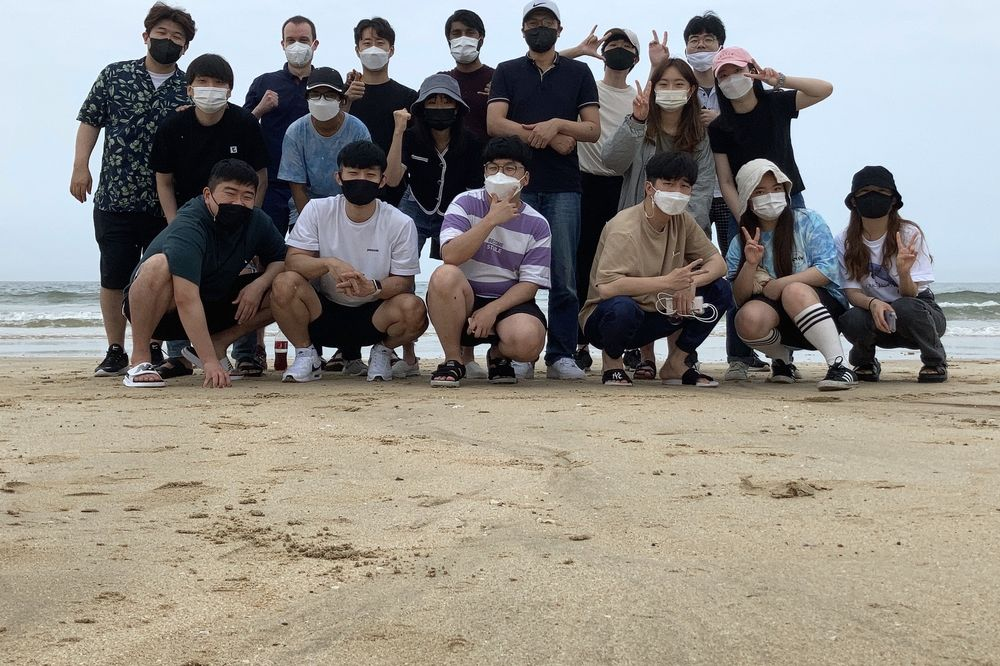
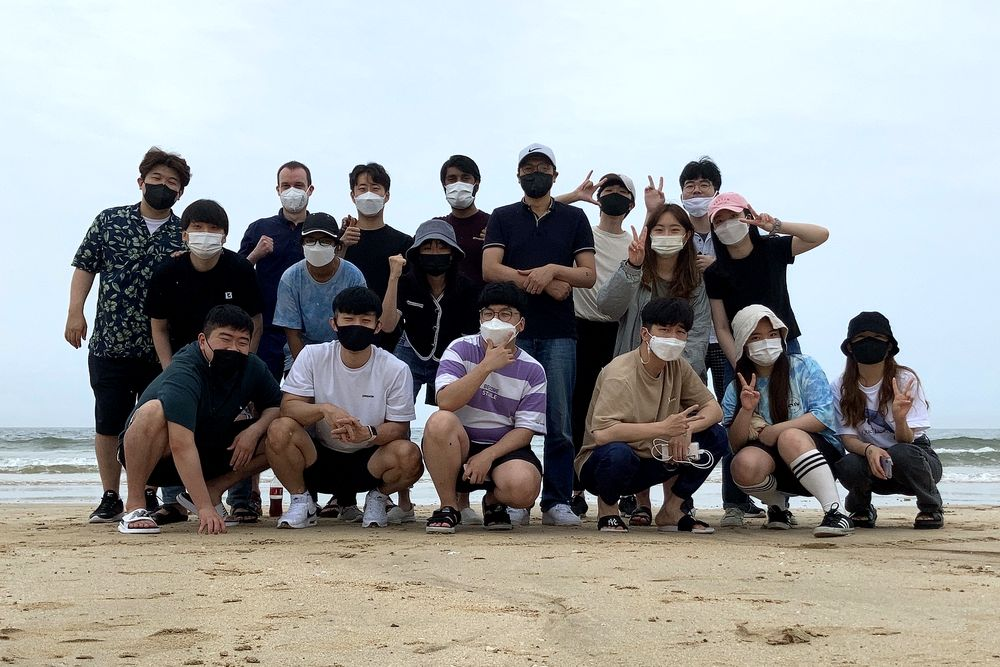
Gallery: three photos re-cropped and sharpened, plus a 2019 group photo
Daecheon 2021 sits centred in its 3:2 frame now; Hoengseong 2015 is cropped in
so the brick wall stops dominating; the ENGE 2024 export gets a denoise and a
two-step unsharp since 1315px is the largest original we have. Adds the
November 2019 group photo that arrived in the Dropbox folder.

diff --git a/gallery/index.html b/gallery/index.html
@@ -117,7 +117,7 @@
   <div class="gallery-grid">
     <figure class="gallery-card reveal"><button type="button" class="gallery-item" data-gallery-item data-frames='[{&quot;s&quot;: &quot;../assets/gallery/2024-12-year-end-dinner-1.jpg?v=b9c950d1&quot;, &quot;a&quot;: &quot;Year-end dinner, December 2024&quot;}]' aria-label="Year-end dinner, December 2024 — opens in the viewer"><span class="gal-track"><img class="gal-frame is-active" src="../assets/gallery/thumbs/2024-12-year-end-dinner-1.jpg?v=b9c950d1" alt="Year-end dinner, December 2024" width="1000" height="667" loading="lazy" decoding="async"></span><span class="zoom"><svg viewBox="0 0 24 24" fill="none" stroke="currentColor" stroke-width="1.8" stroke-linecap="round" stroke-linejoin="round" aria-hidden="true"><path d="M11 19a8 8 0 100-16 8 8 0 000 16zM21 21l-4.3-4.3 M11 8v6M8 11h6"/></svg></span></button><figcaption class="gal-cap"><span class="gal-title">Year-end dinner</span><span class="gal-date">December 2024</span></figcaption></figure>
     <figure class="gallery-card reveal"><button type="button" class="gallery-item" data-gallery-item data-frames='[{&quot;s&quot;: &quot;../assets/gallery/2024-12-after-party-1.jpg?v=8803f062&quot;, &quot;a&quot;: &quot;Year-end dinner, after-party, December 2024 (photo 1 of 2)&quot;}, {&quot;s&quot;: &quot;../assets/gallery/2024-12-after-party-2.jpg?v=3a1f5875&quot;, &quot;a&quot;: &quot;Year-end dinner, after-party, December 2024 (photo 2 of 2)&quot;}]' aria-label="Year-end dinner, after-party, December 2024 — 2 photos, opens in the viewer"><span class="gal-track"><img class="gal-frame is-active" src="../assets/gallery/thumbs/2024-12-after-party-1.jpg?v=8803f062" alt="Year-end dinner, after-party, December 2024 (photo 1 of 2)" width="1000" height="666" loading="lazy" decoding="async"><img class="gal-frame" src="../assets/gallery/thumbs/2024-12-after-party-2.jpg?v=3a1f5875" alt="Year-end dinner, after-party, December 2024 (photo 2 of 2)" width="1000" height="666" loading="lazy" decoding="async"></span><span class="gal-badge" aria-hidden="true">1/2</span><span class="gal-dots" aria-hidden="true"><i class="is-on"></i><i></i></span><span class="zoom"><svg viewBox="0 0 24 24" fill="none" stroke="currentColor" stroke-width="1.8" stroke-linecap="round" stroke-linejoin="round" aria-hidden="true"><path d="M11 19a8 8 0 100-16 8 8 0 000 16zM21 21l-4.3-4.3 M11 8v6M8 11h6"/></svg></span></button><figcaption class="gal-cap"><span class="gal-title">Year-end dinner, after-party</span><span class="gal-date">December 2024</span></figcaption></figure>
-    <figure class="gallery-card reveal"><button type="button" class="gallery-item" data-gallery-item data-frames='[{&quot;s&quot;: &quot;../assets/gallery/2024-11-enge-1.jpg?v=ae8acc46&quot;, &quot;a&quot;: &quot;ENGE 2024 conference, Jeju Shinhwa World, November 2024&quot;}]' aria-label="ENGE 2024 conference, Jeju Shinhwa World, November 2024 — opens in the viewer"><span class="gal-track"><img class="gal-frame is-active" src="../assets/gallery/thumbs/2024-11-enge-1.jpg?v=ae8acc46" alt="ENGE 2024 conference, Jeju Shinhwa World, November 2024" width="1000" height="667" loading="lazy" decoding="async"></span><span class="zoom"><svg viewBox="0 0 24 24" fill="none" stroke="currentColor" stroke-width="1.8" stroke-linecap="round" stroke-linejoin="round" aria-hidden="true"><path d="M11 19a8 8 0 100-16 8 8 0 000 16zM21 21l-4.3-4.3 M11 8v6M8 11h6"/></svg></span></button><figcaption class="gal-cap"><span class="gal-title">ENGE 2024 conference, Jeju Shinhwa World</span><span class="gal-date">November 2024</span></figcaption></figure>
+    <figure class="gallery-card reveal"><button type="button" class="gallery-item" data-gallery-item data-frames='[{&quot;s&quot;: &quot;../assets/gallery/2024-11-enge-1.jpg?v=ef9a931f&quot;, &quot;a&quot;: &quot;ENGE 2024 conference, Jeju Shinhwa World, November 2024&quot;}]' aria-label="ENGE 2024 conference, Jeju Shinhwa World, November 2024 — opens in the viewer"><span class="gal-track"><img class="gal-frame is-active" src="../assets/gallery/thumbs/2024-11-enge-1.jpg?v=ef9a931f" alt="ENGE 2024 conference, Jeju Shinhwa World, November 2024" width="1000" height="667" loading="lazy" decoding="async"></span><span class="zoom"><svg viewBox="0 0 24 24" fill="none" stroke="currentColor" stroke-width="1.8" stroke-linecap="round" stroke-linejoin="round" aria-hidden="true"><path d="M11 19a8 8 0 100-16 8 8 0 000 16zM21 21l-4.3-4.3 M11 8v6M8 11h6"/></svg></span></button><figcaption class="gal-cap"><span class="gal-title">ENGE 2024 conference, Jeju Shinhwa World</span><span class="gal-date">November 2024</span></figcaption></figure>
     <figure class="gallery-card reveal"><button type="button" class="gallery-item" data-gallery-item data-frames='[{&quot;s&quot;: &quot;../assets/gallery/2024-10-small-group-1.jpg?v=dd4a26ae&quot;, &quot;a&quot;: &quot;Small-group dinner, October 2024&quot;}]' aria-label="Small-group dinner, October 2024 — opens in the viewer"><span class="gal-track"><img class="gal-frame is-active" src="../assets/gallery/thumbs/2024-10-small-group-1.jpg?v=dd4a26ae" alt="Small-group dinner, October 2024" width="1000" height="667" loading="lazy" decoding="async"></span><span class="zoom"><svg viewBox="0 0 24 24" fill="none" stroke="currentColor" stroke-width="1.8" stroke-linecap="round" stroke-linejoin="round" aria-hidden="true"><path d="M11 19a8 8 0 100-16 8 8 0 000 16zM21 21l-4.3-4.3 M11 8v6M8 11h6"/></svg></span></button><figcaption class="gal-cap"><span class="gal-title">Small-group dinner</span><span class="gal-date">October 2024</span></figcaption></figure>
     <figure class="gallery-card reveal is-feature"><button type="button" class="gallery-item" data-gallery-item data-frames='[{&quot;s&quot;: &quot;../assets/gallery/2024-07-daebudo-1.jpg?v=58b00f04&quot;, &quot;a&quot;: &quot;Summer workshop, Daebudo, July 2024&quot;}]' aria-label="Summer workshop, Daebudo, July 2024 — opens in the viewer"><span class="gal-track"><img class="gal-frame is-active" src="../assets/gallery/thumbs/2024-07-daebudo-1.jpg?v=58b00f04" alt="Summer workshop, Daebudo, July 2024" width="1000" height="667" loading="lazy" decoding="async"></span><span class="zoom"><svg viewBox="0 0 24 24" fill="none" stroke="currentColor" stroke-width="1.8" stroke-linecap="round" stroke-linejoin="round" aria-hidden="true"><path d="M11 19a8 8 0 100-16 8 8 0 000 16zM21 21l-4.3-4.3 M11 8v6M8 11h6"/></svg></span></button><figcaption class="gal-cap"><span class="gal-title">Summer workshop, Daebudo</span><span class="gal-date">July 2024</span></figcaption></figure>
     <figure class="gallery-card reveal"><button type="button" class="gallery-item" data-gallery-item data-frames='[{&quot;s&quot;: &quot;../assets/gallery/2024-02-small-group-1.jpg?v=a04d55ed&quot;, &quot;a&quot;: &quot;Small-group dinner, February 2024&quot;}]' aria-label="Small-group dinner, February 2024 — opens in the viewer"><span class="gal-track"><img class="gal-frame is-active" src="../assets/gallery/thumbs/2024-02-small-group-1.jpg?v=a04d55ed" alt="Small-group dinner, February 2024" width="1000" height="666" loading="lazy" decoding="async"></span><span class="zoom"><svg viewBox="0 0 24 24" fill="none" stroke="currentColor" stroke-width="1.8" stroke-linecap="round" stroke-linejoin="round" aria-hidden="true"><path d="M11 19a8 8 0 100-16 8 8 0 000 16zM21 21l-4.3-4.3 M11 8v6M8 11h6"/></svg></span></button><figcaption class="gal-cap"><span class="gal-title">Small-group dinner</span><span class="gal-date">February 2024</span></figcaption></figure>
@@ -143,7 +143,7 @@
   <h2 class="gal-year-head"><span class="gal-year-num">2021</span><span class="gal-year-rule"></span></h2>
   <div class="gallery-grid">
     <figure class="gallery-card reveal is-feature"><button type="button" class="gallery-item" data-gallery-item data-frames='[{&quot;s&quot;: &quot;../assets/gallery/2021-11-biochip-1.jpg?v=c5389c12&quot;, &quot;a&quot;: &quot;Korean Biochip Society fall meeting, Jeju Shinhwa World, November 2021&quot;}]' aria-label="Korean Biochip Society fall meeting, Jeju Shinhwa World, November 2021 — opens in the viewer"><span class="gal-track"><img class="gal-frame is-active" src="../assets/gallery/thumbs/2021-11-biochip-1.jpg?v=c5389c12" alt="Korean Biochip Society fall meeting, Jeju Shinhwa World, November 2021" width="1000" height="667" loading="lazy" decoding="async"></span><span class="zoom"><svg viewBox="0 0 24 24" fill="none" stroke="currentColor" stroke-width="1.8" stroke-linecap="round" stroke-linejoin="round" aria-hidden="true"><path d="M11 19a8 8 0 100-16 8 8 0 000 16zM21 21l-4.3-4.3 M11 8v6M8 11h6"/></svg></span></button><figcaption class="gal-cap"><span class="gal-title">Korean Biochip Society fall meeting, Jeju Shinhwa World</span><span class="gal-date">November 2021</span></figcaption></figure>
-    <figure class="gallery-card reveal"><button type="button" class="gallery-item" data-gallery-item data-frames='[{&quot;s&quot;: &quot;../assets/gallery/2021-07-daecheon-1.jpg?v=f4a5ede9&quot;, &quot;a&quot;: &quot;Summer workshop, Daecheon, July 2021&quot;}]' aria-label="Summer workshop, Daecheon, July 2021 — opens in the viewer"><span class="gal-track"><img class="gal-frame is-active" src="../assets/gallery/thumbs/2021-07-daecheon-1.jpg?v=f4a5ede9" alt="Summer workshop, Daecheon, July 2021" width="1000" height="666" loading="lazy" decoding="async"></span><span class="zoom"><svg viewBox="0 0 24 24" fill="none" stroke="currentColor" stroke-width="1.8" stroke-linecap="round" stroke-linejoin="round" aria-hidden="true"><path d="M11 19a8 8 0 100-16 8 8 0 000 16zM21 21l-4.3-4.3 M11 8v6M8 11h6"/></svg></span></button><figcaption class="gal-cap"><span class="gal-title">Summer workshop, Daecheon</span><span class="gal-date">July 2021</span></figcaption></figure>
+    <figure class="gallery-card reveal"><button type="button" class="gallery-item" data-gallery-item data-frames='[{&quot;s&quot;: &quot;../assets/gallery/2021-07-daecheon-1.jpg?v=c649da86&quot;, &quot;a&quot;: &quot;Summer workshop, Daecheon, July 2021&quot;}]' aria-label="Summer workshop, Daecheon, July 2021 — opens in the viewer"><span class="gal-track"><img class="gal-frame is-active" src="../assets/gallery/thumbs/2021-07-daecheon-1.jpg?v=c649da86" alt="Summer workshop, Daecheon, July 2021" width="1000" height="667" loading="lazy" decoding="async"></span><span class="zoom"><svg viewBox="0 0 24 24" fill="none" stroke="currentColor" stroke-width="1.8" stroke-linecap="round" stroke-linejoin="round" aria-hidden="true"><path d="M11 19a8 8 0 100-16 8 8 0 000 16zM21 21l-4.3-4.3 M11 8v6M8 11h6"/></svg></span></button><figcaption class="gal-cap"><span class="gal-title">Summer workshop, Daecheon</span><span class="gal-date">July 2021</span></figcaption></figure>
   </div>
 </div></section>
 <section class="section gal-year" id="year-2020"><div class="wrap">
@@ -155,6 +155,7 @@
 <section class="section gal-year" id="year-2019"><div class="wrap">
   <h2 class="gal-year-head"><span class="gal-year-num">2019</span><span class="gal-year-rule"></span></h2>
   <div class="gallery-grid">
+    <figure class="gallery-card reveal"><button type="button" class="gallery-item" data-gallery-item data-frames='[{&quot;s&quot;: &quot;../assets/gallery/2019-11-group-photo-1.jpg?v=5147cbc1&quot;, &quot;a&quot;: &quot;Lab group photo, November 2019&quot;}]' aria-label="Lab group photo, November 2019 — opens in the viewer"><span class="gal-track"><img class="gal-frame is-active" src="../assets/gallery/thumbs/2019-11-group-photo-1.jpg?v=5147cbc1" alt="Lab group photo, November 2019" width="1000" height="667" loading="lazy" decoding="async"></span><span class="zoom"><svg viewBox="0 0 24 24" fill="none" stroke="currentColor" stroke-width="1.8" stroke-linecap="round" stroke-linejoin="round" aria-hidden="true"><path d="M11 19a8 8 0 100-16 8 8 0 000 16zM21 21l-4.3-4.3 M11 8v6M8 11h6"/></svg></span></button><figcaption class="gal-cap"><span class="gal-title">Lab group photo</span><span class="gal-date">November 2019</span></figcaption></figure>
     <figure class="gallery-card reveal"><button type="button" class="gallery-item" data-gallery-item data-frames='[{&quot;s&quot;: &quot;../assets/gallery/2019-07-gapyeong-1.jpg?v=e8655b16&quot;, &quot;a&quot;: &quot;Summer workshop, Gapyeong, July 2019&quot;}]' aria-label="Summer workshop, Gapyeong, July 2019 — opens in the viewer"><span class="gal-track"><img class="gal-frame is-active" src="../assets/gallery/thumbs/2019-07-gapyeong-1.jpg?v=e8655b16" alt="Summer workshop, Gapyeong, July 2019" width="1000" height="667" loading="lazy" decoding="async"></span><span class="zoom"><svg viewBox="0 0 24 24" fill="none" stroke="currentColor" stroke-width="1.8" stroke-linecap="round" stroke-linejoin="round" aria-hidden="true"><path d="M11 19a8 8 0 100-16 8 8 0 000 16zM21 21l-4.3-4.3 M11 8v6M8 11h6"/></svg></span></button><figcaption class="gal-cap"><span class="gal-title">Summer workshop, Gapyeong</span><span class="gal-date">July 2019</span></figcaption></figure>
   </div>
 </div></section>
@@ -184,7 +185,7 @@
   <h2 class="gal-year-head"><span class="gal-year-num">2015</span><span class="gal-year-rule"></span></h2>
   <div class="gallery-grid">
     <figure class="gallery-card reveal is-feature"><button type="button" class="gallery-item" data-gallery-item data-frames='[{&quot;s&quot;: &quot;../assets/gallery/2015-12-year-end-dinner-1.jpg?v=146dbabf&quot;, &quot;a&quot;: &quot;Year-end dinner, December 2015&quot;}]' aria-label="Year-end dinner, December 2015 — opens in the viewer"><span class="gal-track"><img class="gal-frame is-active" src="../assets/gallery/thumbs/2015-12-year-end-dinner-1.jpg?v=146dbabf" alt="Year-end dinner, December 2015" width="1000" height="667" loading="lazy" decoding="async"></span><span class="zoom"><svg viewBox="0 0 24 24" fill="none" stroke="currentColor" stroke-width="1.8" stroke-linecap="round" stroke-linejoin="round" aria-hidden="true"><path d="M11 19a8 8 0 100-16 8 8 0 000 16zM21 21l-4.3-4.3 M11 8v6M8 11h6"/></svg></span></button><figcaption class="gal-cap"><span class="gal-title">Year-end dinner</span><span class="gal-date">December 2015</span></figcaption></figure>
-    <figure class="gallery-card reveal"><button type="button" class="gallery-item" data-gallery-item data-frames='[{&quot;s&quot;: &quot;../assets/gallery/2015-07-hoengseong-1.jpg?v=f6618f72&quot;, &quot;a&quot;: &quot;Summer workshop, Hoengseong, July 2015&quot;}]' aria-label="Summer workshop, Hoengseong, July 2015 — opens in the viewer"><span class="gal-track"><img class="gal-frame is-active" src="../assets/gallery/thumbs/2015-07-hoengseong-1.jpg?v=f6618f72" alt="Summer workshop, Hoengseong, July 2015" width="1000" height="666" loading="lazy" decoding="async"></span><span class="zoom"><svg viewBox="0 0 24 24" fill="none" stroke="currentColor" stroke-width="1.8" stroke-linecap="round" stroke-linejoin="round" aria-hidden="true"><path d="M11 19a8 8 0 100-16 8 8 0 000 16zM21 21l-4.3-4.3 M11 8v6M8 11h6"/></svg></span></button><figcaption class="gal-cap"><span class="gal-title">Summer workshop, Hoengseong</span><span class="gal-date">July 2015</span></figcaption></figure>
+    <figure class="gallery-card reveal"><button type="button" class="gallery-item" data-gallery-item data-frames='[{&quot;s&quot;: &quot;../assets/gallery/2015-07-hoengseong-1.jpg?v=73bb2901&quot;, &quot;a&quot;: &quot;Summer workshop, Hoengseong, July 2015&quot;}]' aria-label="Summer workshop, Hoengseong, July 2015 — opens in the viewer"><span class="gal-track"><img class="gal-frame is-active" src="../assets/gallery/thumbs/2015-07-hoengseong-1.jpg?v=73bb2901" alt="Summer workshop, Hoengseong, July 2015" width="1000" height="666" loading="lazy" decoding="async"></span><span class="zoom"><svg viewBox="0 0 24 24" fill="none" stroke="currentColor" stroke-width="1.8" stroke-linecap="round" stroke-linejoin="round" aria-hidden="true"><path d="M11 19a8 8 0 100-16 8 8 0 000 16zM21 21l-4.3-4.3 M11 8v6M8 11h6"/></svg></span></button><figcaption class="gal-cap"><span class="gal-title">Summer workshop, Hoengseong</span><span class="gal-date">July 2015</span></figcaption></figure>
   </div>
 </div></section>
 <section class="section gal-year" id="year-2014"><div class="wrap">
